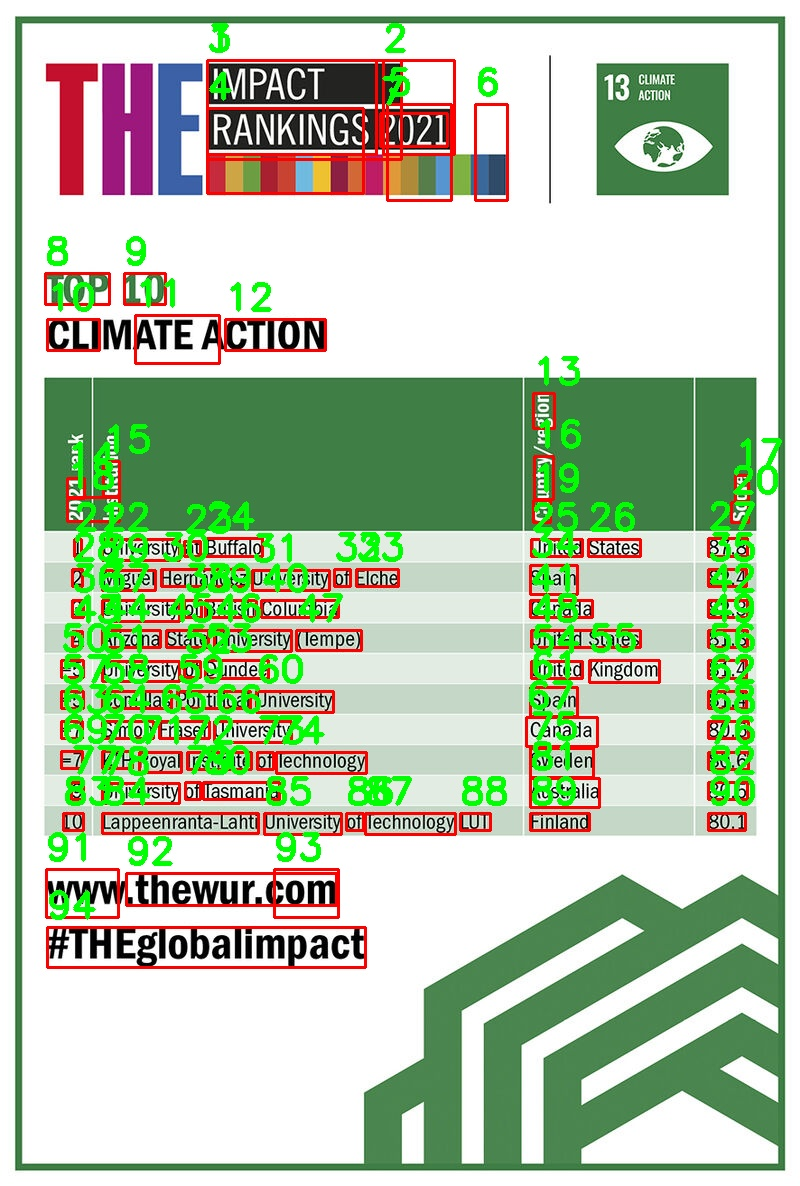
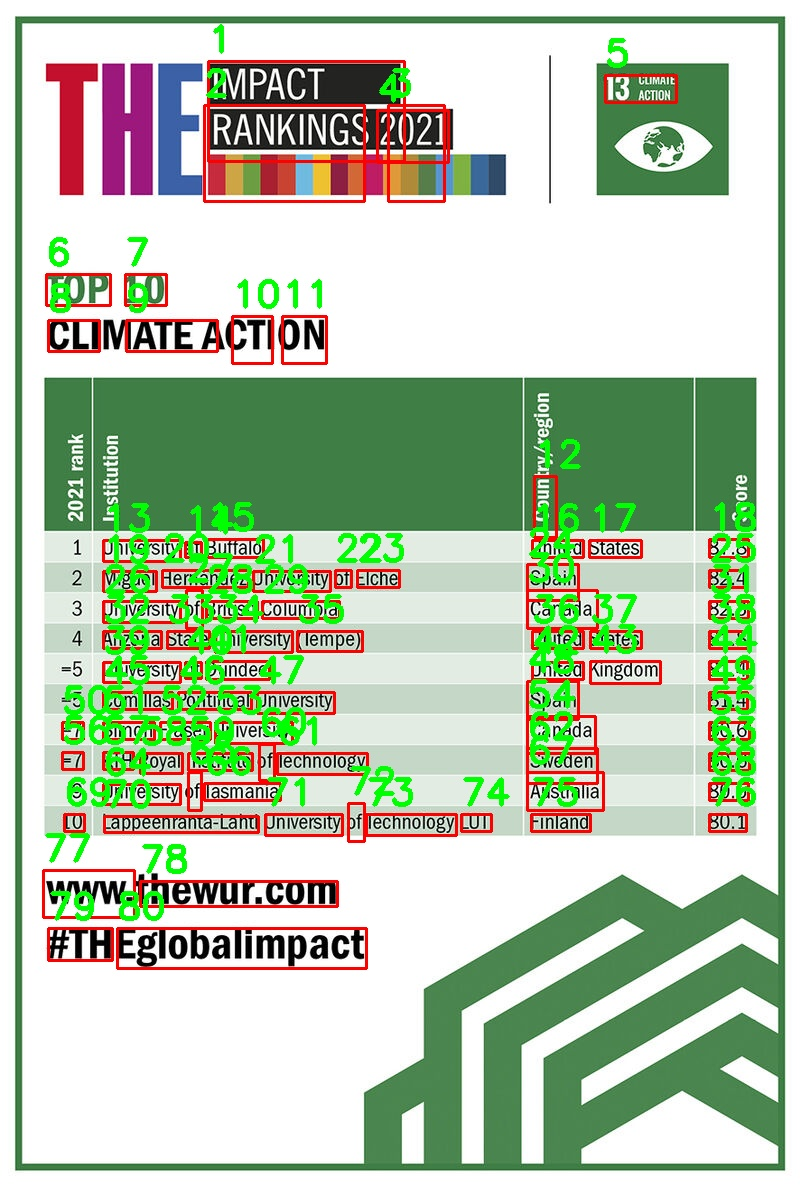
[45] Rajitha - Updated process.py

diff --git a/img_process/process.py b/img_process/process.py
@@ -82,7 +82,7 @@ class ImageProcess():
         img_gray = cv2.bitwise_and(img_gray,img_gray, mask=mask)
         img_gray = cv2.GaussianBlur(img_gray,(3,3),cv2.BORDER_DEFAULT)
 
-        rect_kernel = cv2.getStructuringElement(cv2.MORPH_RECT, (1,1))
+        rect_kernel = cv2.getStructuringElement(cv2.MORPH_RECT, (2,2))
         edges = cv2.Canny(img_gray,180,255)
         edges = cv2.dilate(edges, rect_kernel, iterations = 1)
         edges = cv2.erode(edges, rect_kernel, iterations = 1)
@@ -95,7 +95,7 @@ class ImageProcess():
             text = results["text"][i]
             conf = int(float(results["conf"][i]))
 
-            if conf != -1 and len(text)>0 and text not in escape:
+            if conf != -1 and len(text)>1 and text not in escape:
                 num+=1
                 # extract the bounding box coordinates
                 # of the text region from  the current result
@@ -114,6 +114,8 @@ class ImageProcess():
                 colors = sorted(colors)
                 color_1 = colors[0][0]
                 color_2 = colors[-1][0]
+
+                #add finding worst color contrast
 
                 img_arr["color_1"] = color_1
                 img_arr["color_2"] = color_2
